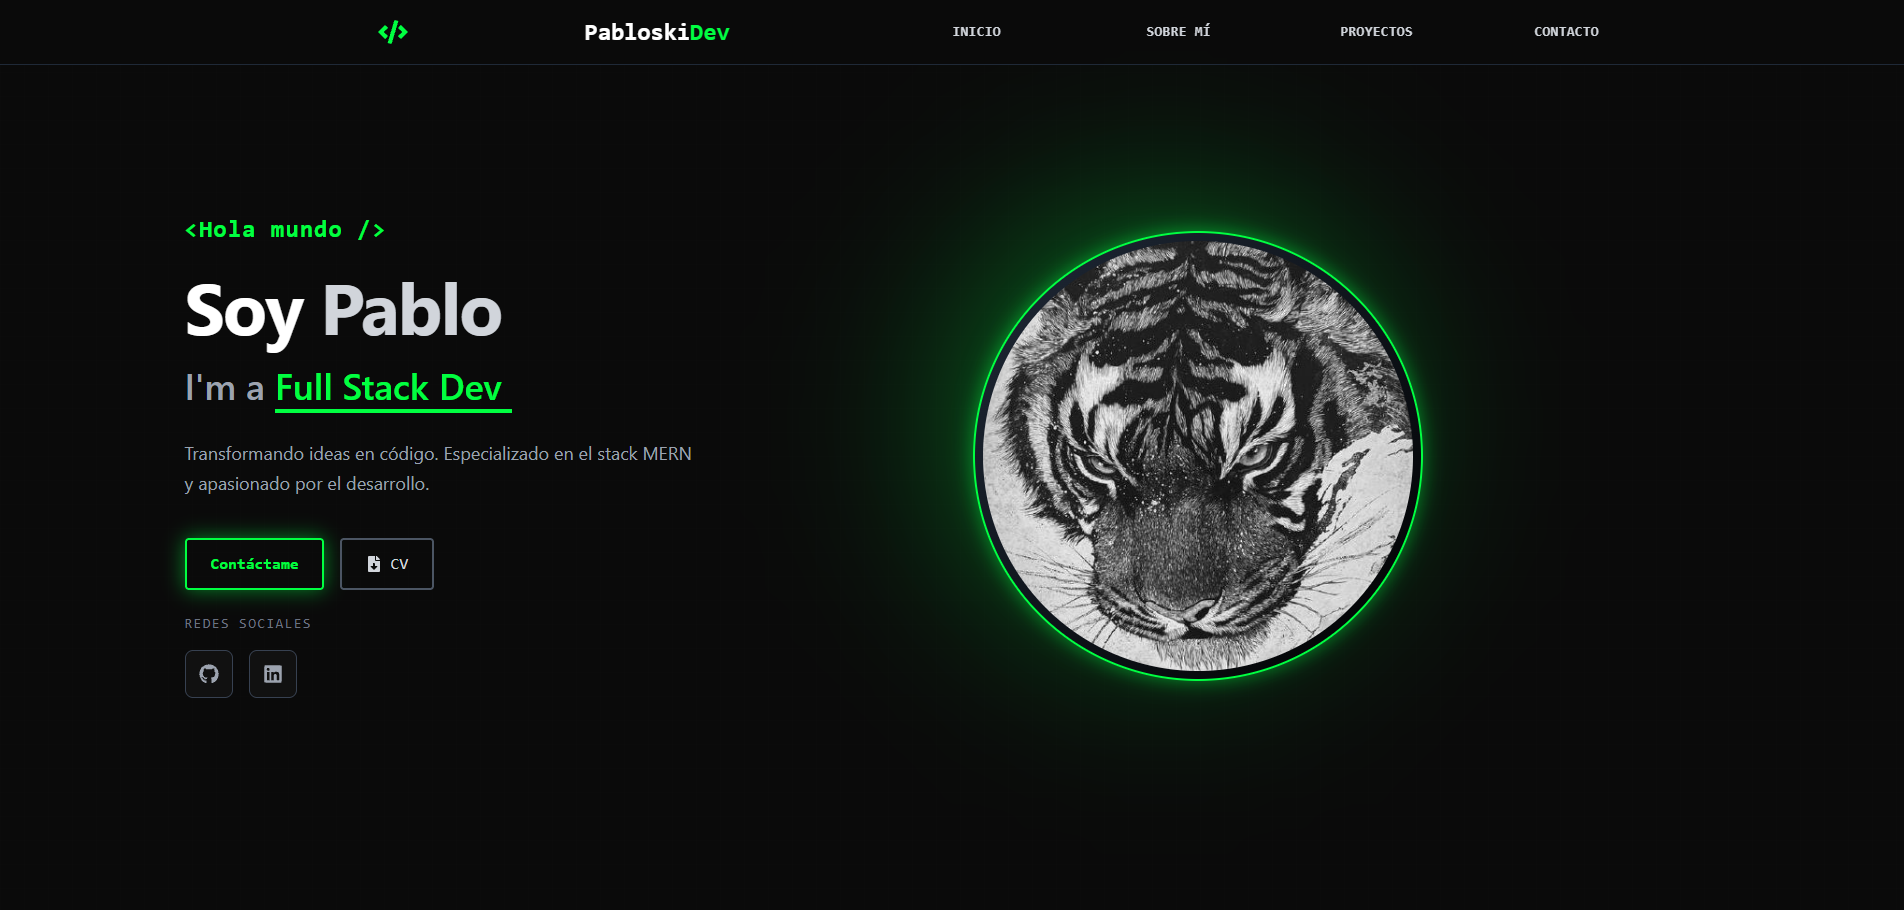
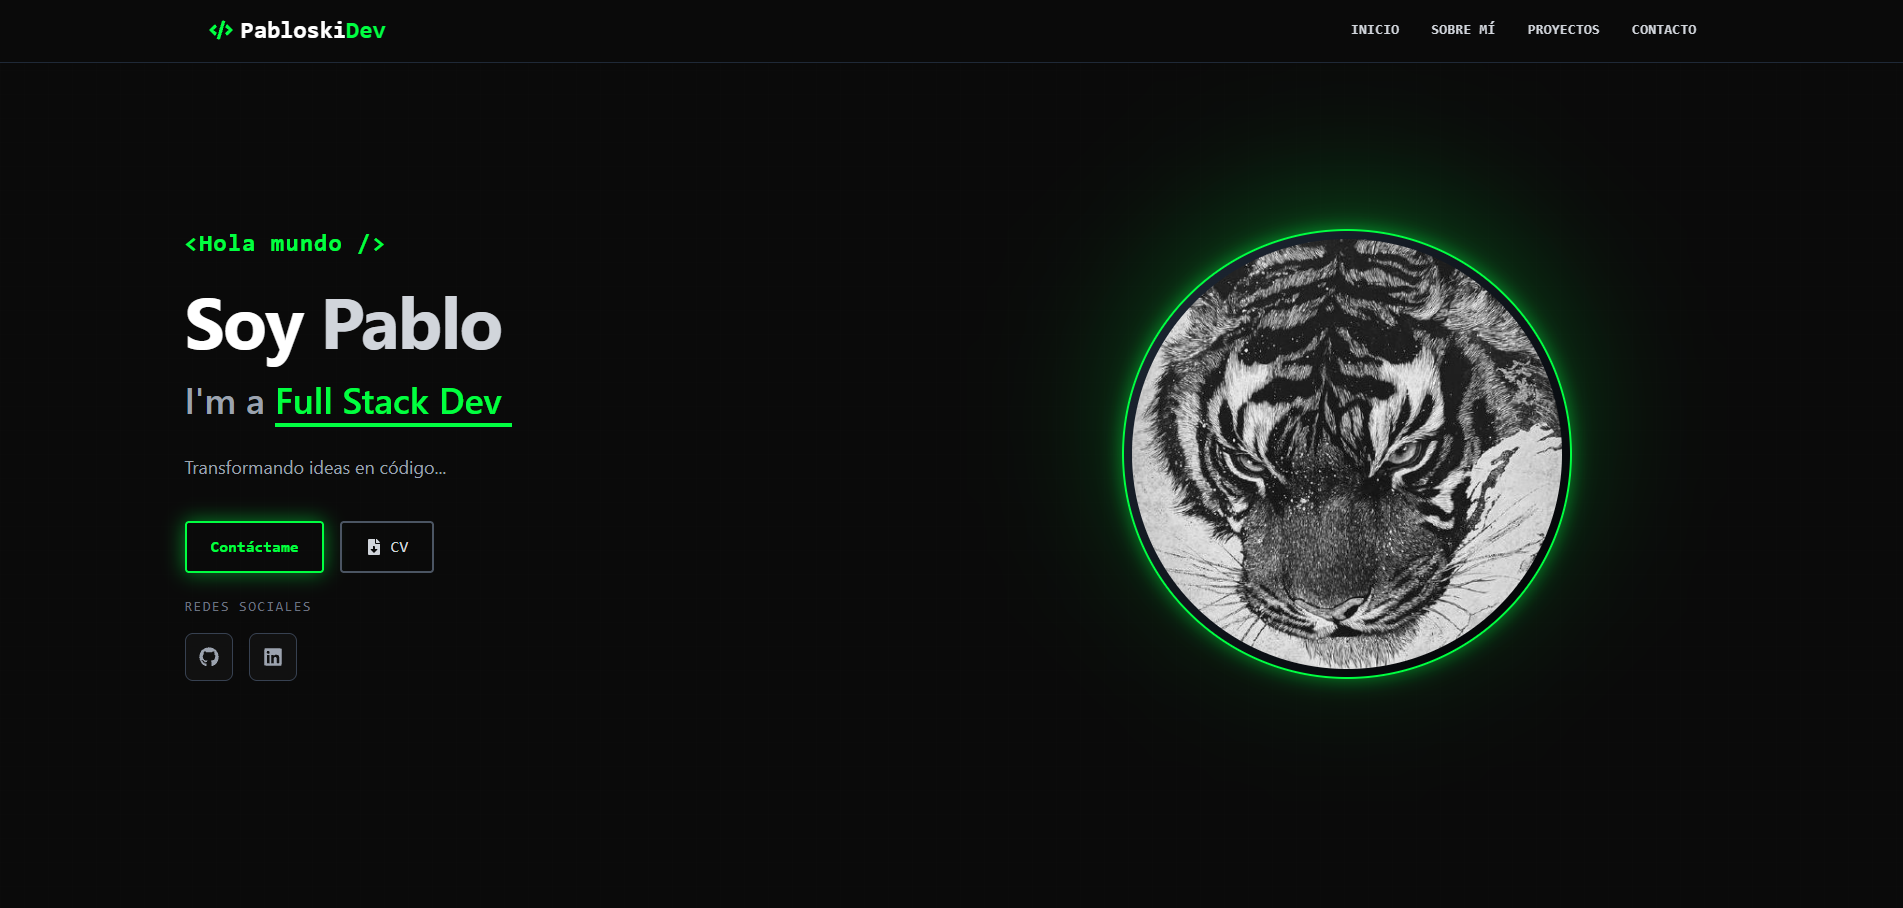
Se corrige aspecto de las tarjetas de proyectos. Se actualiza imagen de vista previa.

diff --git a/client/src/components/Projects.jsx b/client/src/components/Projects.jsx
@@ -3,44 +3,24 @@ import { FaGithub, FaStar, FaCode, FaExternalLinkAlt } from 'react-icons/fa';
 // eslint-disable-next-line no-unused-vars
 import { motion } from 'framer-motion';
 
-// --- CONFIGURACIÓN ---
-const GITHUB_USERNAME = "Pabloski-c"; // Usuario de GitHub del cual se obtendrán los repositorios.
+const GITHUB_USERNAME = "Pabloski-c";
 
-/**
- * Componente de Proyectos.
- * 
- * Obtiene los repositorios públicos de un usuario de GitHub a través de su API,
- * los filtra para mostrar los más relevantes y los presenta en una cuadrícula de tarjetas.
- * Cada tarjeta muestra información clave del proyecto y enlaces al código y/o demo.
- */
 const Projects = () => {
-  // --- ESTADOS ---
-  const [repos, setRepos] = useState([]); // Almacena los repositorios filtrados.
-  const [loading, setLoading] = useState(true); // Indica si los datos se están cargando.
+  const [repos, setRepos] = useState([]);
+  const [loading, setLoading] = useState(true);
 
   useEffect(() => {
-    /**
-     * Obtiene y filtra los repositorios de GitHub.
-     */
     const fetchRepos = async () => {
       try {
-        // Petición a la API de GitHub para obtener los repositorios, ordenados por la última actualización.
         const response = await fetch(`https://api.github.com/users/${GITHUB_USERNAME}/repos?sort=updated&per_page=100`);
         const data = await response.json();
 
-        // --- LÓGICA DE FILTRADO ---
         const filteredRepos = data.filter(repo => {
-          // Criterio 1: No debe ser un 'fork' (un repositorio copiado de otro usuario).
           const isNotFork = !repo.fork; 
-          // Criterio 2: Debe tener una descripción (para asegurar que el proyecto está documentado).
           const hasDescription = repo.description; 
-          // Criterio opcional: se podría filtrar por 'topics' si se quisiera más granularidad.
-          // Ejemplo: repo.topics.includes('portfolio')
-          
           return isNotFork && hasDescription;
         });
 
-        // Limita la cantidad de repositorios a mostrar (los 6 más recientes que pasaron el filtro).
         setRepos(filteredRepos.slice(0, 6));
         setLoading(false);
       } catch (error) {
@@ -50,13 +30,12 @@ const Projects = () => {
     };
 
     fetchRepos();
-  }, []); // El array vacío asegura que el efecto se ejecute solo una vez.
+  }, []);
 
   return (
     <section className="py-20 bg-dark-bg text-white px-5" id="proyectos">
       <div className="container mx-auto">
         
-        {/* Título de la sección */}
         <motion.div 
           initial={{ opacity: 0, y: 20 }}
           whileInView={{ opacity: 1, y: 0 }}
@@ -69,73 +48,74 @@ const Projects = () => {
           <p className="text-gray-400 mt-4">Extraídos directamente de mi API de GitHub</p>
         </motion.div>
 
-        {/* Estado de carga */}
         {loading ? (
           <div className="text-center text-neon-green font-mono animate-pulse">
             Cargando datos del sistema...
           </div>
         ) : (
-          /* Cuadrícula de tarjetas de proyecto */
           <div className="grid grid-cols-1 md:grid-cols-2 lg:grid-cols-3 gap-8">
             {repos.map((repo, index) => (
               <motion.div
                 key={repo.id}
-                // Animación de entrada para cada tarjeta.
                 initial={{ opacity: 0, scale: 0.9 }}
                 whileInView={{ opacity: 1, scale: 1 }}
                 transition={{ duration: 0.3, delay: index * 0.1 }}
-                className="group relative bg-[#111] p-6 rounded-lg border border-gray-800 hover:border-neon-green transition-all duration-300 hover:shadow-[0_0_15px_rgba(0,255,65,0.2)] flex flex-col justify-between h-full"
+                className="group relative bg-[#111] p-6 rounded-xl border border-gray-800 hover:border-neon-green transition-all duration-300 hover:shadow-[0_0_15px_rgba(0,255,65,0.15)] flex flex-col justify-between h-full"
               >
                 <div>
-                  {/* Cabecera de la tarjeta */}
-                  <div className="flex justify-between items-start mb-4">
+                  {/* --- HEADER: Icono Izquierda / Estrella Derecha --- */}
+                  {/* Cambiamos 'justify-between' por 'flex' normal */}
+                  <div className="flex items-center pb-4 mb-4 border-b border-gray-800">
+                    
+                    {/* Icono de Código (Pegado a la izquierda) */}
                     <FaCode className="text-2xl text-neon-green" />
-                    {/* Contador de estrellas del repositorio */}
-                    <div className="flex items-center gap-2 text-sm text-gray-400">
+
+                    {/* Estrella (Empujada a la derecha con ml-auto) */}
+                    {/* El gap-2 asegura que el número se aleje lo justo de la estrella */}
+                    <div className="ml-auto flex items-center gap-2 text-sm text-gray-400 font-mono">
                       <FaStar className="text-yellow-500" />
                       <span>{repo.stargazers_count}</span>
                     </div>
                   </div>
 
-                  {/* Contenido principal de la tarjeta */}
-                  <h3 className="text-xl font-bold font-mono mb-2 group-hover:text-neon-green transition-colors">
+                  {/* Título y Descripción */}
+                  <h3 className="text-xl font-bold font-mono mb-3 text-white group-hover:text-neon-green transition-colors truncate">
                     {repo.name}
                   </h3>
-                  <p className="text-gray-400 text-sm mb-4 line-clamp-3">
+                  <p className="text-gray-400 text-sm mb-6 line-clamp-3 leading-relaxed">
                     {repo.description || "Sin descripción disponible."}
                   </p>
                 </div>
 
-                {/* Pie de la tarjeta */}
                 <div>
-                  {/* Muestra el lenguaje de programación principal */}
-                  <div className="flex flex-wrap gap-2 mb-4">
+                  {/* --- TECNOLOGÍAS --- */}
+                  <div className="flex flex-wrap gap-2 mb-6">
                     {repo.language && (
-                      <span className="px-2 py-1 text-xs font-bold border border-gray-600 rounded text-gray-300">
+                      <span className="px-3 py-1 text-xs font-semibold border border-neon-green/30 bg-neon-green/5 text-neon-green rounded-full w-fit">
                         {repo.language}
                       </span>
                     )}
                   </div>
 
-                  {/* Enlaces al código fuente y a la demo (si existe) */}
-                  <div className="flex gap-4 mt-auto pt-4 border-t border-gray-800">
+                  {/* --- BOTONES --- */}
+                  <div className="flex gap-3 pt-5 border-t border-gray-800">
                     <a 
                       href={repo.html_url} 
                       target="_blank" 
                       rel="noopener noreferrer"
-                      className="flex items-center gap-2 text-sm text-gray-300 hover:text-neon-green transition-colors"
+                      className="flex items-center gap-2 px-4 py-2 text-xs font-bold border border-gray-600 rounded-lg text-gray-300 hover:border-neon-green hover:text-neon-green hover:bg-neon-green/10 transition-all w-fit"
                     >
-                      <FaGithub /> Código
+                      <FaGithub className="text-sm" /> Código
                     </a>
-                    {/* El enlace a la demo solo se muestra si la propiedad 'homepage' existe en el repo */}
+                    
                     {repo.homepage && (
                       <a 
                         href={repo.homepage} 
                         target="_blank" 
                         rel="noopener noreferrer"
-                        className="flex items-center gap-2 text-sm text-gray-300 hover:text-neon-green transition-colors"
+                        className="flex items-center gap-2 px-4 py-2 text-xs font-bold border border-gray-600 rounded-lg text-gray-300 hover:border-neon-green hover:text-neon-green hover:bg-neon-green/10 transition-all w-fit"
                       >
-                        <FaExternalLinkAlt /> Demo
+                        <FaExternalLinkAlt className="text-sm" /> Demo
                       </a>
                     )}
                   </div>

diff --git a/client/src/App.css b/client/src/App.css
@@ -1,5 +1,5 @@
 * {
-  width: 100%;
+  /* width: 100%; */
   margin: 0;
   padding: 0;
   box-sizing: border-box;
